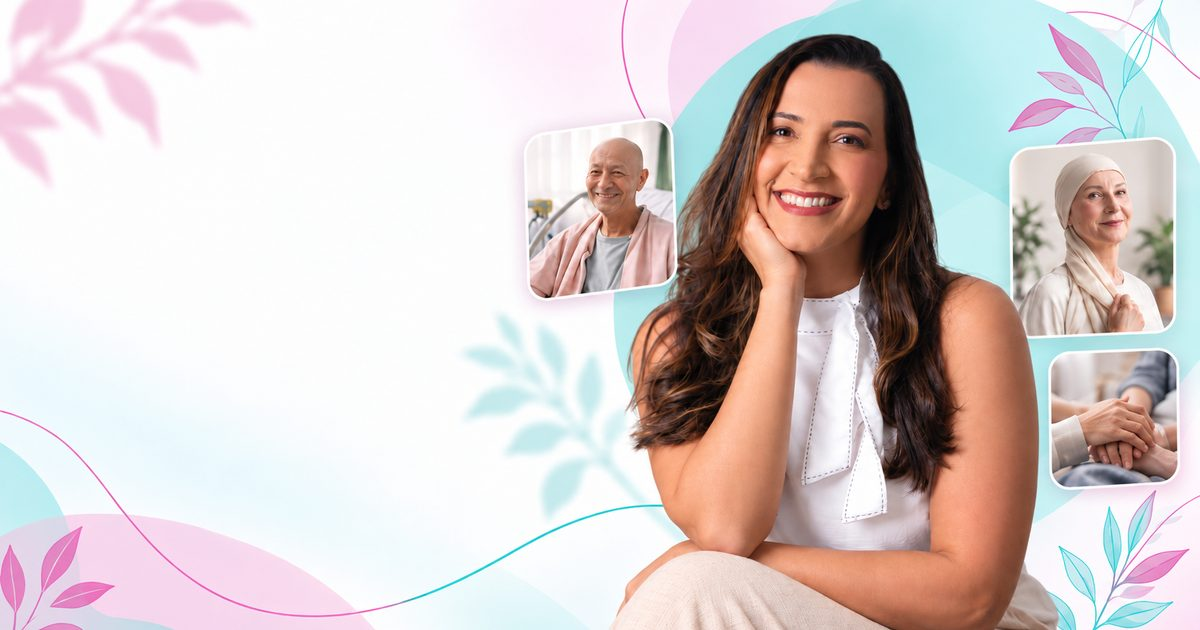
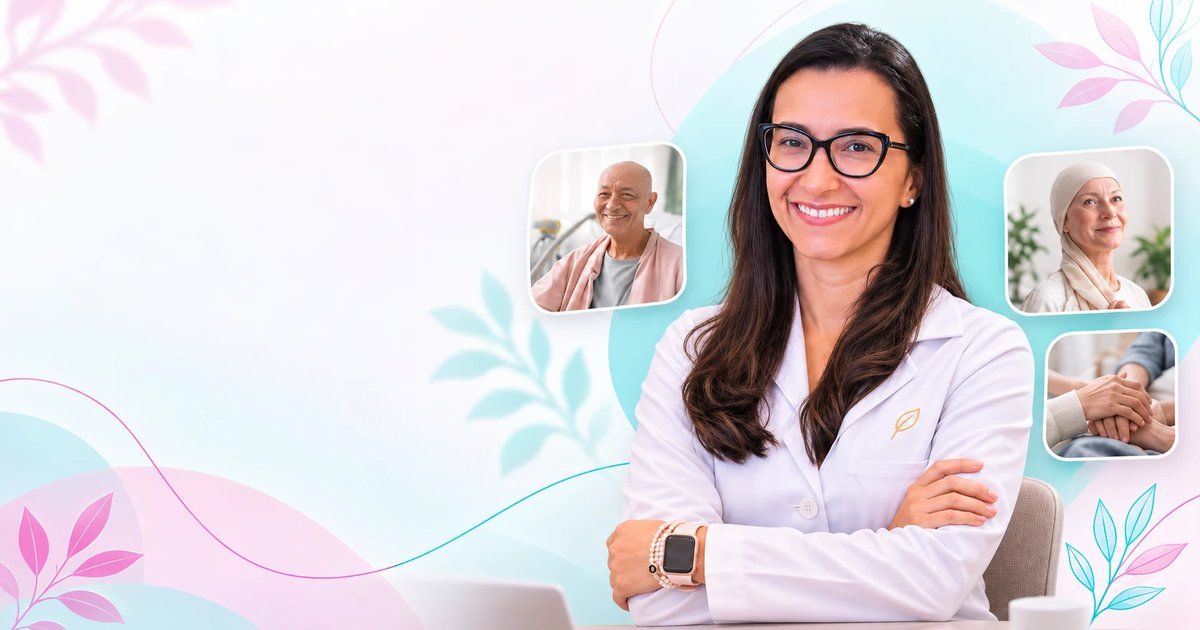
Use the new desktop and mobile heroes with SEO metadata
- New hero images keep their original look; files renamed to tatiane-rios-nutricionista-oncologica-{desktop,mobile}-{size}, WebP and JPG, with EXIF and XMP title, description, author and rights, descriptive alt and title
- Wide screens show the full image with no overlay; copy sits only in the light left area. Small laptops and tablets stack text above the image. Phones show the full vertical image with copy only over its empty top
- Hero numbers hidden on wide screens since the authority strip repeats them right below
- Share image (og-image.jpg) regenerated from the new desktop hero

Claude-Session: https://claude.ai/code/session_018SSsuy5Y9AUME7mFCzsAq4

diff --git a/index.html b/index.html
@@ -33,8 +33,8 @@
 <link rel="preconnect" href="https://fonts.gstatic.com" crossorigin>
 <link href="https://fonts.googleapis.com/css2?family=Poppins:wght@500;600;700&family=DM+Sans:opsz,wght@9..40,400;9..40,500;9..40,600&display=swap" rel="stylesheet">
 
-<link rel="preload" as="image" type="image/webp" href="assets/img/hero-mobile-720.webp" imagesrcset="assets/img/hero-mobile-720.webp 720w, assets/img/hero-mobile-1080.webp 1080w" imagesizes="100vw" media="(max-width: 759px)">
-<link rel="preload" as="image" type="image/webp" href="assets/img/hero-desktop-1672.webp" imagesrcset="assets/img/hero-desktop-1100.webp 1100w, assets/img/hero-desktop-1672.webp 1672w" imagesizes="100vw" media="(min-width: 760px)">
+<link rel="preload" as="image" type="image/webp" href="assets/img/tatiane-rios-nutricionista-oncologica-mobile-720.webp" imagesrcset="assets/img/tatiane-rios-nutricionista-oncologica-mobile-720.webp 720w, assets/img/tatiane-rios-nutricionista-oncologica-mobile-941.webp 941w" imagesizes="100vw" media="(max-width: 759px)">
+<link rel="preload" as="image" type="image/webp" href="assets/img/tatiane-rios-nutricionista-oncologica-desktop-1672.webp" imagesrcset="assets/img/tatiane-rios-nutricionista-oncologica-desktop-1100.webp 1100w, assets/img/tatiane-rios-nutricionista-oncologica-desktop-1672.webp 1672w" imagesizes="100vw" media="(min-width: 760px)">
 
 <style>
   :root{
@@ -84,19 +84,18 @@
 
   /* Hero */
   .hero{position:relative;overflow:hidden;background:#fff}
-  .hero-media{position:absolute;inset:0;z-index:0}
-  .hero-media img{width:100%;height:100%;object-fit:cover;object-position:right center}
-  .hero-media::after{content:'';position:absolute;inset:0;background:linear-gradient(90deg,rgba(255,255,255,.96) 0%,rgba(255,255,255,.9) 34%,rgba(255,255,255,.55) 46%,rgba(255,255,255,0) 58%)}
-  .hero-inner{position:relative;z-index:1;min-height:min(78vh,680px);display:flex;align-items:center;padding-top:56px;padding-bottom:56px}
-  .hero-tx{max-width:540px}
+  .hero-media{display:block}
+  .hero-media img{display:block;width:100%;height:auto}
+  .hero-inner{position:absolute;inset:0;z-index:1;display:flex;align-items:center;padding-top:20px;padding-bottom:20px}
+  .hero-tx{width:min(calc(41vw - 22px),calc(560px - 8vw))}
   .hero-for{display:flex;align-items:center;gap:10px;font-family:'Poppins',sans-serif;font-weight:500;font-size:15px;color:var(--pink-700);margin-bottom:18px}
   .hero-for svg{width:24px;height:24px;flex:none;color:var(--pink)}
-  .hero h1{font-size:clamp(31px,3.6vw,46px);line-height:1.1}
+  .hero h1{font-size:clamp(30px,2.9vw,44px);line-height:1.12}
   .hero h1 em{font-style:normal;color:var(--pink-600)}
-  .hero-sub{font-size:18.5px;color:var(--ink-2);margin-top:20px;max-width:520px}
+  .hero-sub{font-size:16.5px;line-height:1.6;color:var(--ink-2);margin-top:18px}
   .hero-sub strong{color:var(--ink)}
-  .hero-cta{margin-top:30px}
-  .hero-proof{display:flex;flex-wrap:wrap;gap:10px 22px;margin-top:30px;padding-top:24px;border-top:1px solid rgba(214,109,183,.22)}
+  .hero-cta{margin-top:24px}
+  .hero-proof{display:flex;flex-wrap:wrap;gap:10px 22px;margin-top:22px;padding-top:18px;border-top:1px solid rgba(214,109,183,.22)}
   .hero-proof div{display:flex;flex-direction:column;line-height:1.2}
   .hero-proof b{font-family:'Poppins',sans-serif;font-size:24px;font-weight:700;color:var(--pink-600)}
   .hero-proof span{font-size:13.5px;color:var(--ink-2)}
@@ -322,6 +321,17 @@
     .ab-list{flex-wrap:wrap;justify-content:center;row-gap:10px}
   }
 
+  /* Computador: os números já aparecem na faixa logo abaixo do Hero */
+  @media (min-width: 1180px){ .hero-proof{display:none} }
+
+  /* Notebooks menores e tablet: texto em cima, imagem inteira embaixo */
+  @media (max-width: 1179px){
+    .hero{display:flex;flex-direction:column}
+    .hero-inner{position:static;order:1;padding-top:44px;padding-bottom:28px}
+    .hero-tx{width:auto;max-width:680px}
+    .hero-media{order:2}
+  }
+
   /* Tablet */
   @media (max-width: 1023px){
     .grid-3,.grid-4,.benefits{grid-template-columns:1fr 1fr}
@@ -344,12 +354,8 @@
     .brand img{height:36px}
     .head-cta{display:none}
 
-    .hero{display:flex;flex-direction:column}
-    .hero-inner{order:1;min-height:0;padding-top:22px;padding-bottom:0;text-align:center}
-    .hero-media{position:relative;inset:auto;order:2;margin-top:-70px}
-    .hero-media::after{display:none}
-    .hero-media::before{content:'';position:absolute;left:0;right:0;top:0;height:140px;background:linear-gradient(#fff 15%,rgba(255,255,255,0));z-index:1}
-    .hero-media img{height:auto;aspect-ratio:1080/1343;object-position:center bottom}
+    .hero-inner{position:relative;z-index:1;padding-top:22px;padding-bottom:0;text-align:center}
+    .hero-media{margin-top:-52vw}
     .hero-tx{max-width:100%}
     .hero-for{justify-content:center;font-size:13.5px;margin-bottom:14px;text-align:left}
     .hero-for svg{width:20px;height:20px}
@@ -488,10 +494,10 @@
   <!-- 1. HERO: sintoma + promessa -->
   <section class="hero" aria-labelledby="hero-title">
     <picture class="hero-media">
-      <source media="(max-width: 759px)" type="image/webp" srcset="assets/img/hero-mobile-720.webp 720w, assets/img/hero-mobile-1080.webp 1080w" sizes="100vw">
-      <source media="(max-width: 759px)" srcset="assets/img/hero-mobile-720.jpg 720w, assets/img/hero-mobile-1080.jpg 1080w" sizes="100vw">
-      <source type="image/webp" srcset="assets/img/hero-desktop-1100.webp 1100w, assets/img/hero-desktop-1672.webp 1672w" sizes="100vw">
-      <img src="assets/img/hero-desktop-1672.jpg" srcset="assets/img/hero-desktop-1100.jpg 1100w, assets/img/hero-desktop-1672.jpg 1672w" sizes="100vw" width="1672" height="941" alt="Tatiane Rios, nutricionista oncológica, sorrindo, ao lado de fotos de pacientes em tratamento" fetchpriority="high">
+      <source media="(max-width: 759px)" type="image/webp" srcset="assets/img/tatiane-rios-nutricionista-oncologica-mobile-720.webp 720w, assets/img/tatiane-rios-nutricionista-oncologica-mobile-941.webp 941w" sizes="100vw">
+      <source media="(max-width: 759px)" srcset="assets/img/tatiane-rios-nutricionista-oncologica-mobile-720.jpg 720w, assets/img/tatiane-rios-nutricionista-oncologica-mobile-941.jpg 941w" sizes="100vw">
+      <source type="image/webp" srcset="assets/img/tatiane-rios-nutricionista-oncologica-desktop-1100.webp 1100w, assets/img/tatiane-rios-nutricionista-oncologica-desktop-1672.webp 1672w" sizes="100vw">
+      <img src="assets/img/tatiane-rios-nutricionista-oncologica-desktop-1672.jpg" srcset="assets/img/tatiane-rios-nutricionista-oncologica-desktop-1100.jpg 1100w, assets/img/tatiane-rios-nutricionista-oncologica-desktop-1672.jpg 1672w" sizes="100vw" width="1672" height="941" alt="Tatiane Rios, nutricionista oncológica, de jaleco e braços cruzados, ao lado de fotos de pacientes em tratamento contra o câncer" title="Tatiane Rios, Nutricionista Oncológica" fetchpriority="high" decoding="async">
     </picture>
     <div class="wrap hero-inner">
       <div class="hero-tx">
